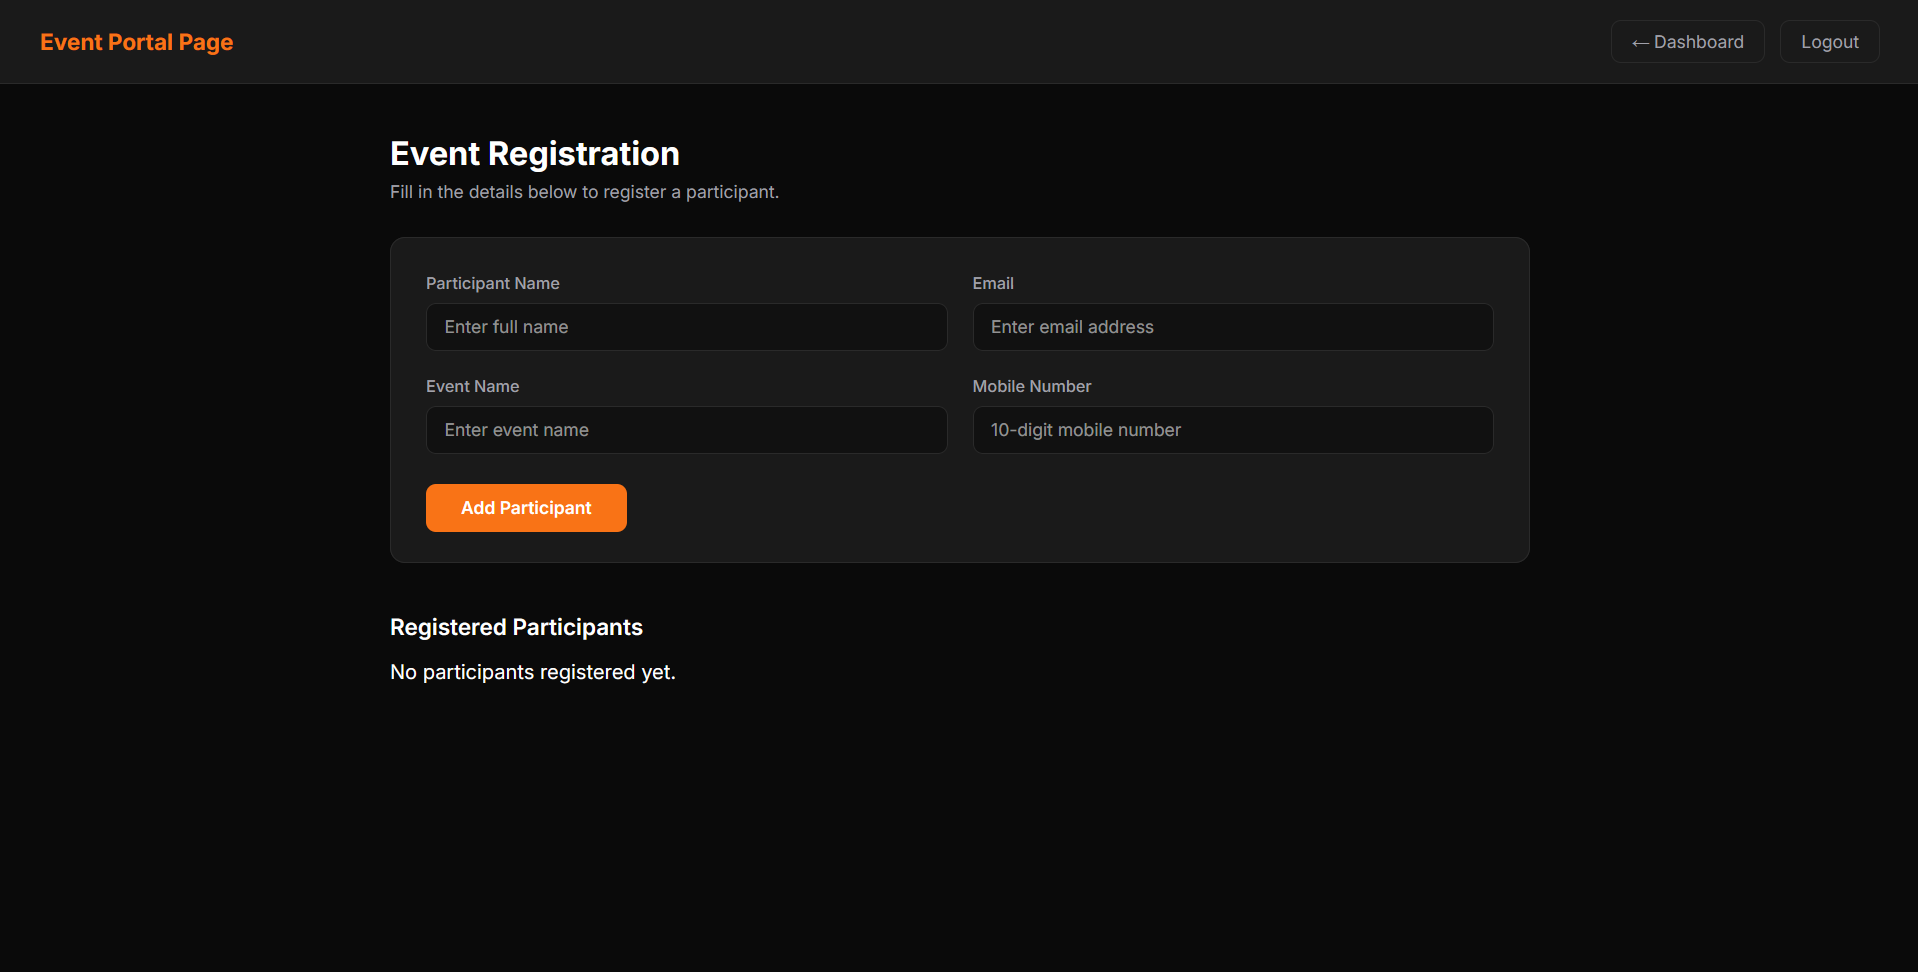
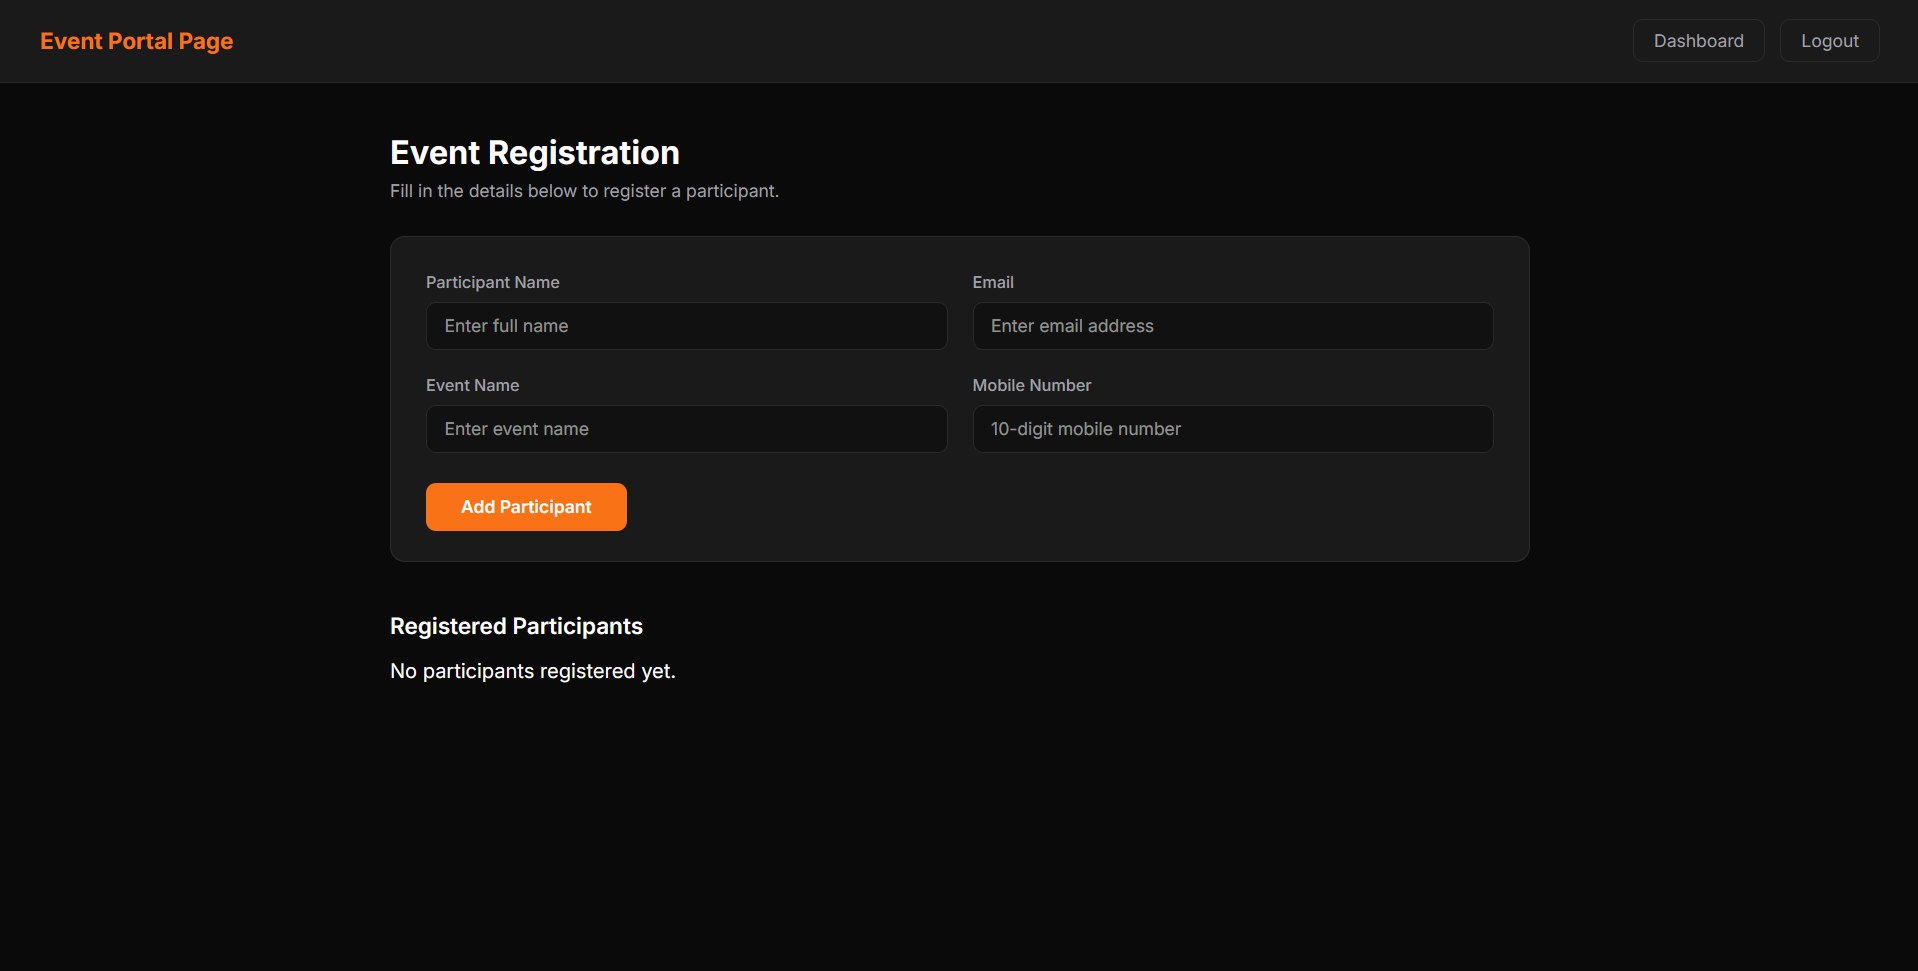
fix: dshboard and readme

diff --git a/src/app/components/event-registration/event-registration.html b/src/app/components/event-registration/event-registration.html
@@ -1,7 +1,7 @@
 <nav class="navbar">
   <span class="brand"> Event Portal Page</span>
   <div class="nav-actions">
-    <button class="btn-back" (click)="goBack()">&#8592; Dashboard</button>
+    <button class="btn-back" (click)="goBack()">Dashboard</button>
     <button class="btn-logout" (click)="logout()">Logout</button>
   </div>
 </nav>